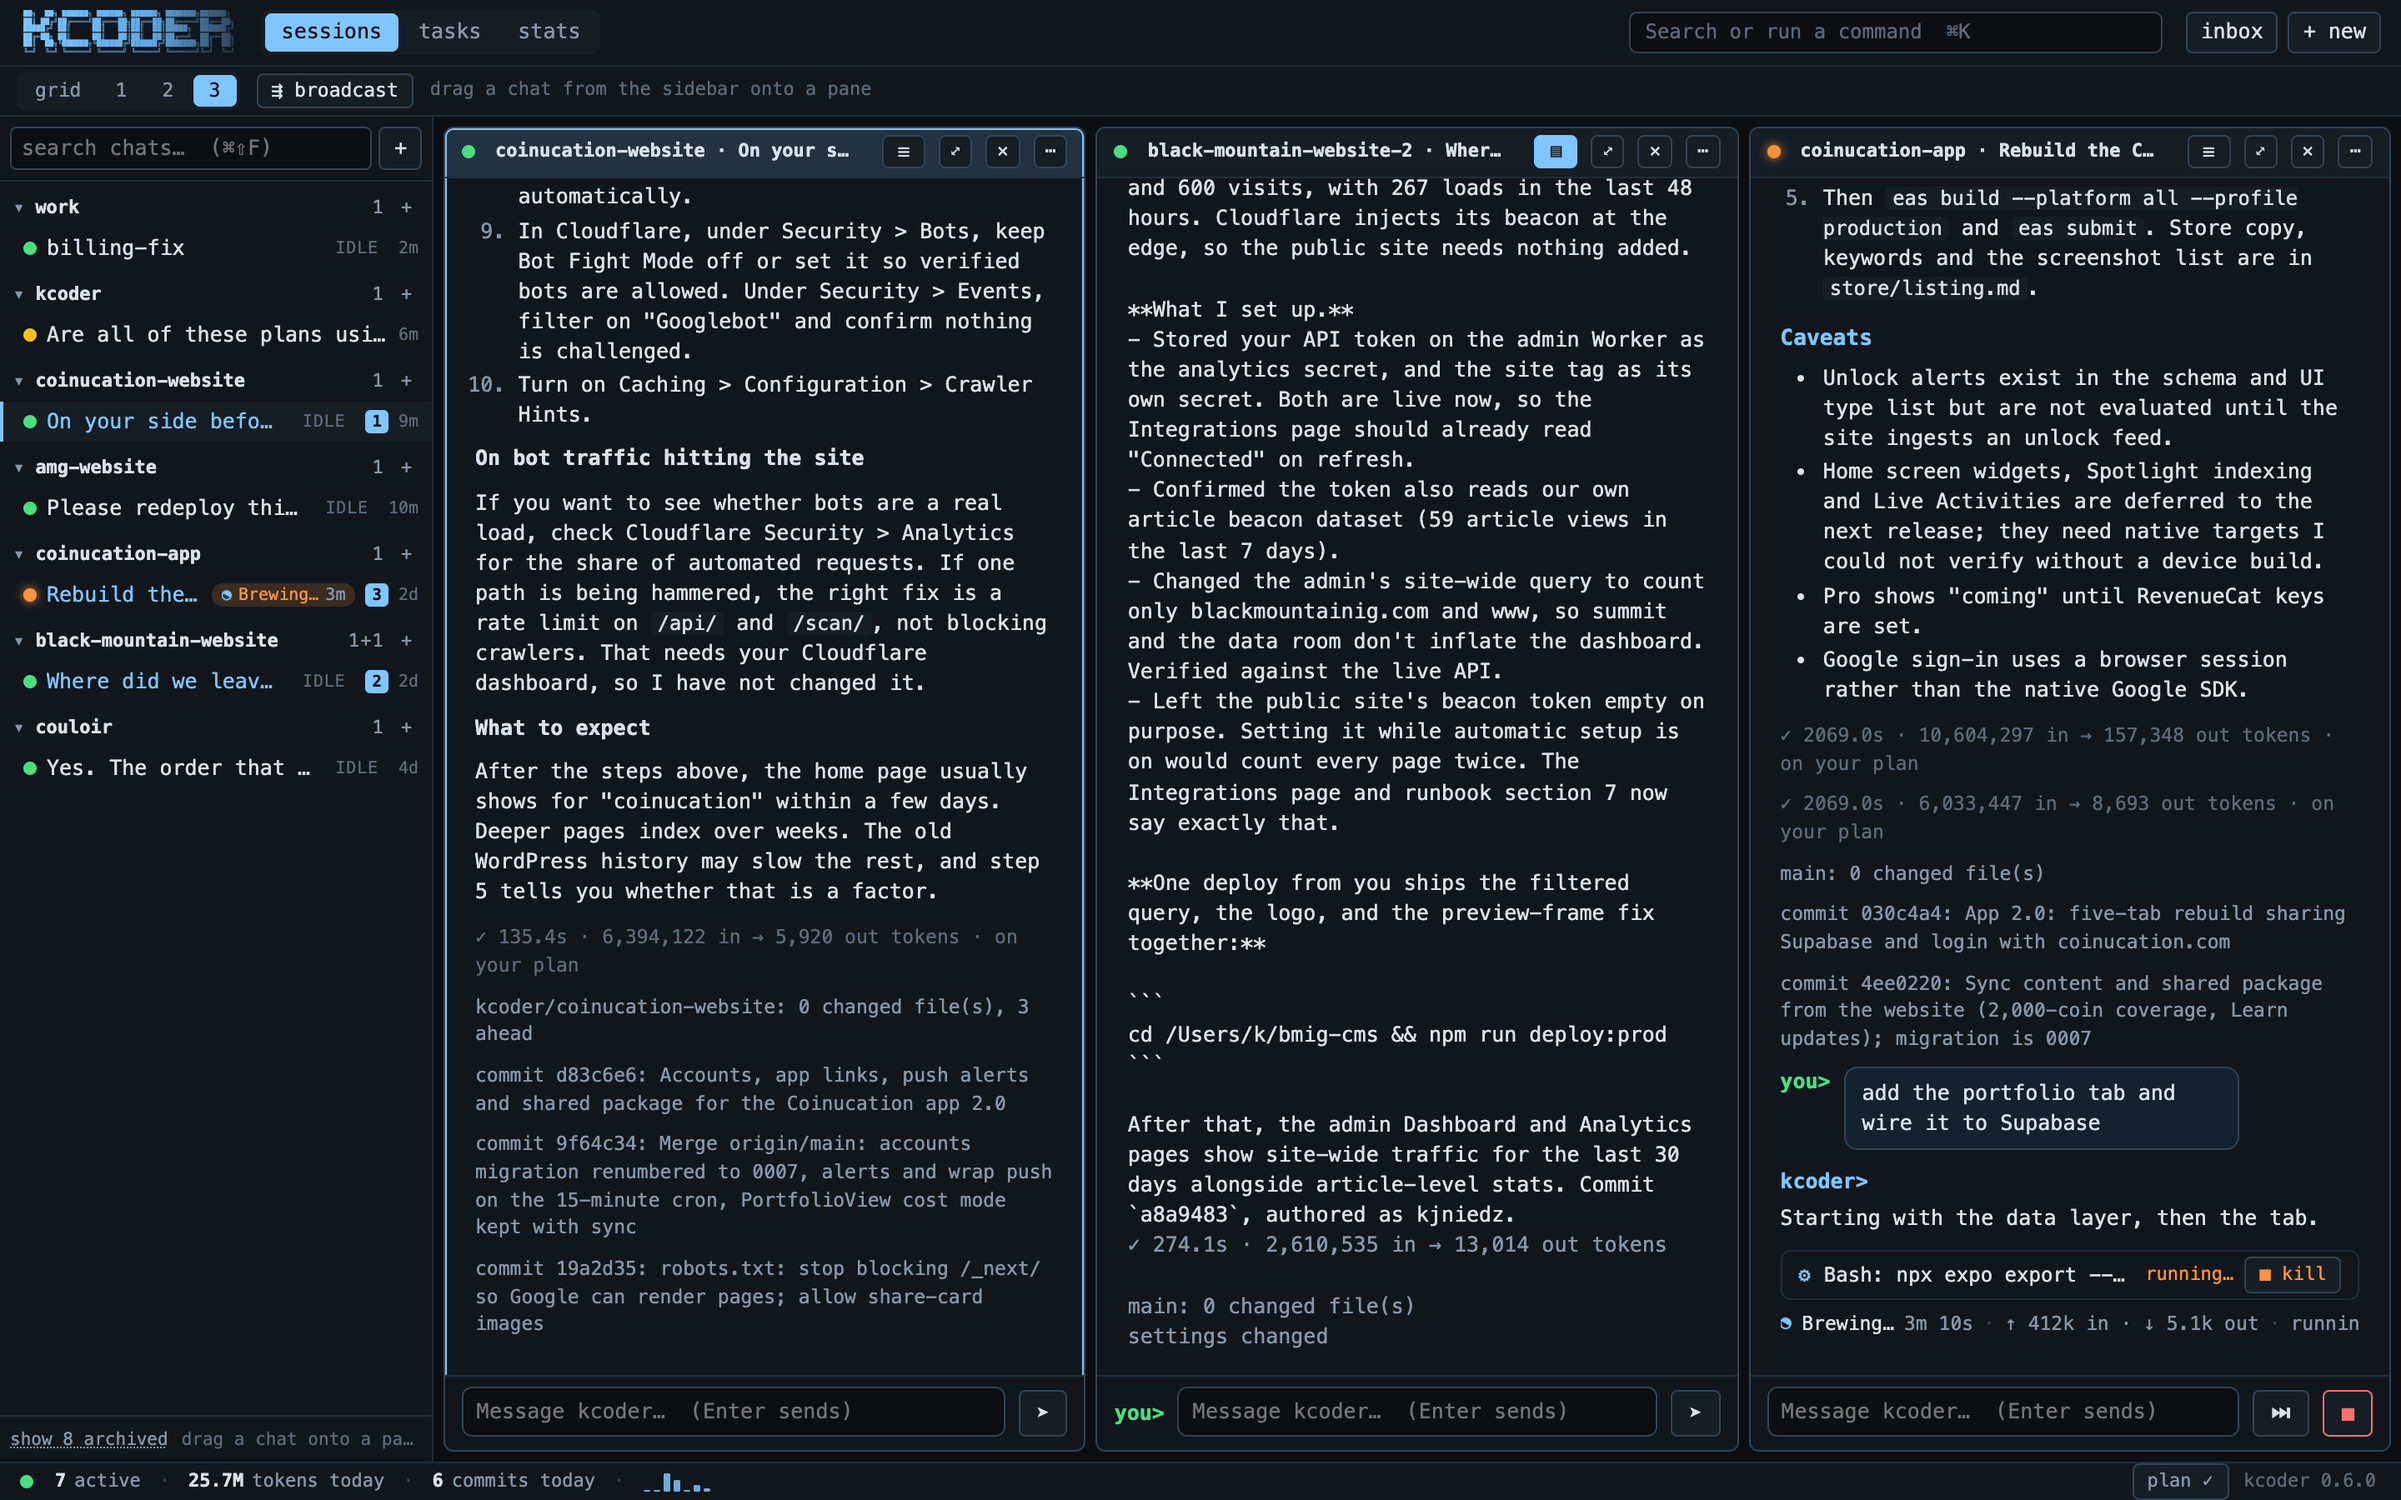
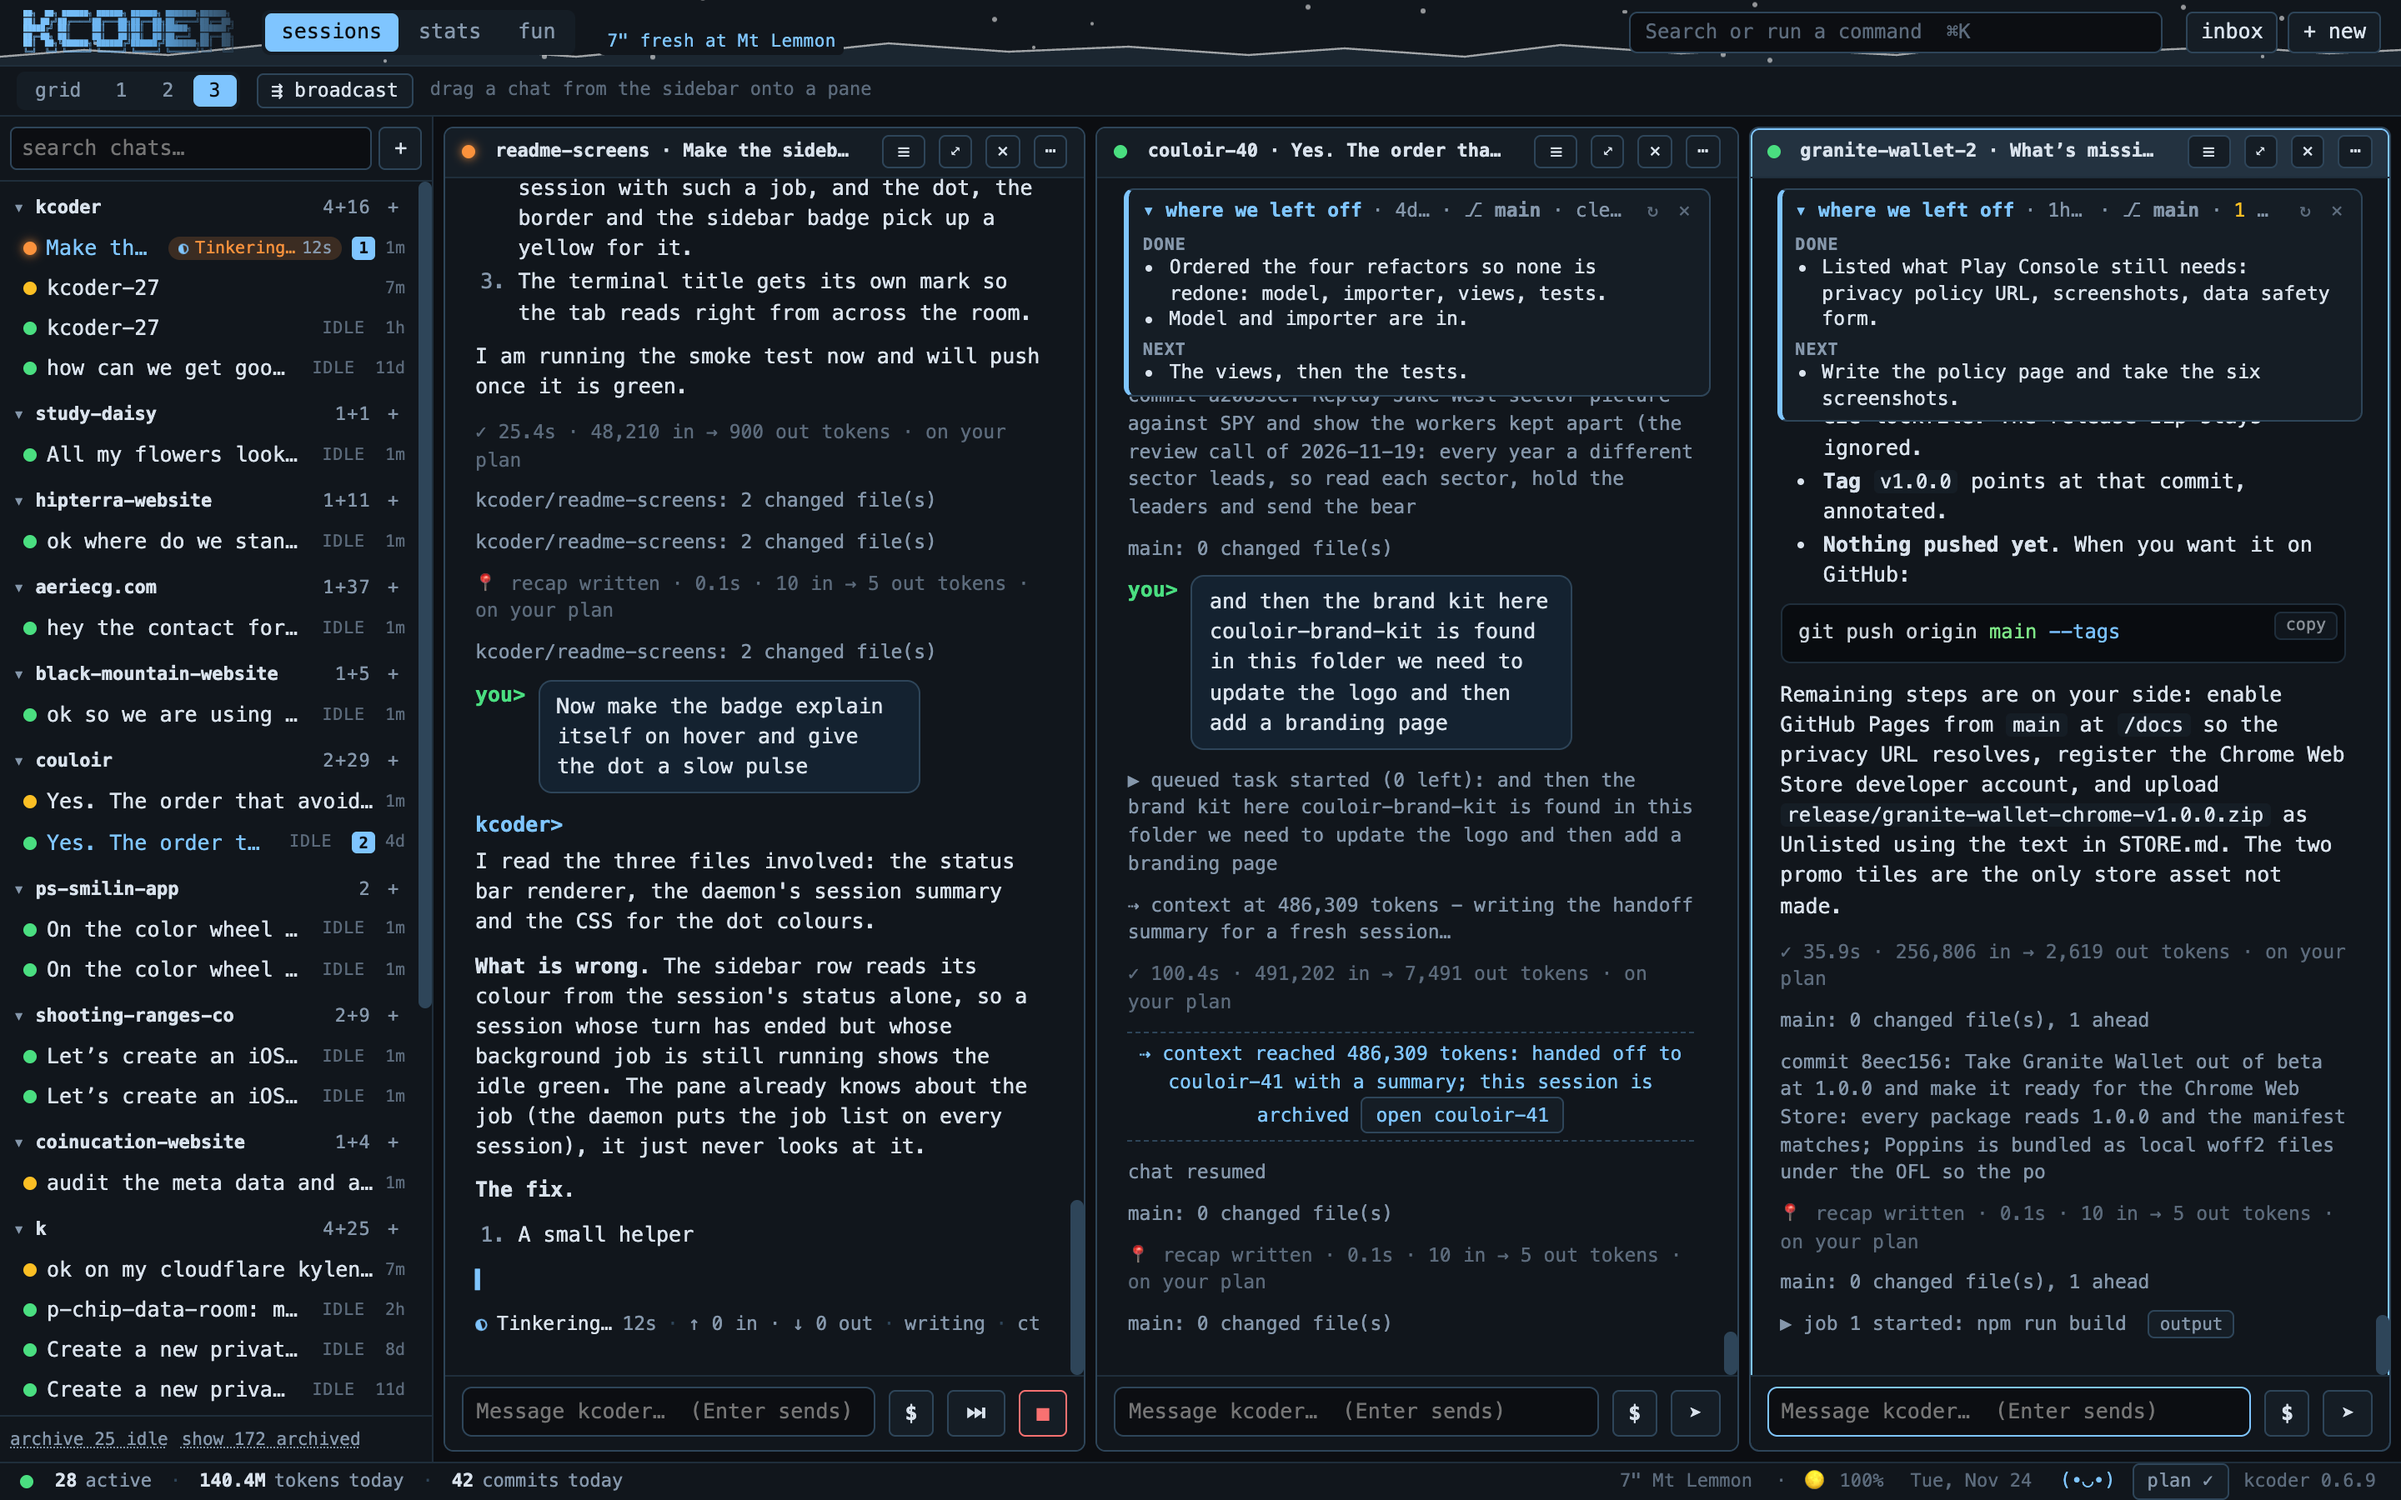
README: the screenshots are from today's app, and the text covers the yellow job status. Kyle asked for the README to be up to date, screenshots and all. The four screenshots were from October 12 and showed the old header (a tasks tab, no fun tab, no conditions), panes without the "where we left off

diff --git a/README.md b/README.md
@@ -24,13 +24,18 @@ them in one window. Developed by Kyle Niedzwiecki.
   review, secret scanning, checkpoints you can undo to, and one-click
   draft PRs, all as your own GitHub account.
 
-![Three sessions side by side: one working with the live status line, one in terminal view](docs/chat-3-panes.png)
+![Three sessions side by side: one working with the live status line, one whose background job is still running, each with its "where we left off" recap](docs/chat-3-panes.png)
 
 <table>
 <tr>
 <td width="33%"><img src="docs/sessions.png" alt="The sessions grid: every live session as a pane"><br><sub><b>Sessions</b>: every live session as a pane, or 1 to 3 side by side</sub></td>
 <td width="33%"><img src="docs/changes.png" alt="Diff review: accept, edit or reject each hunk, then approve, merge or open a draft PR"><br><sub><b>Diff review</b>: accept, edit or reject each hunk, then approve, merge or open a PR</sub></td>
 <td width="33%"><img src="docs/stats.png" alt="Stats: tokens, lines of code, commits, sessions, cache use and more"><br><sub><b>Stats</b>: tokens, lines of code, commits, cache use, activity</sub></td>
+</tr>
+<tr>
+<td width="33%"><img src="docs/phone.png" alt="kcoder on a phone: a session open full screen with the composer above the keyboard"><br><sub><b>Phone</b>: every session on your iPhone through the relay, with push notifications</sub></td>
+<td width="33%"><img src="docs/fun.png" alt="The fun tab: the token mine with its agents, upgrades, sprints and exchange"><br><sub><b>Fun</b>: the token mine, paid by your real turns and commits, plus 2048 and mahjong</sub></td>
+<td width="33%"><img src="docs/conditions.png" alt="The snow view: the last 7 days and the next 7 at the nearest mountain"><br><sub><b>Conditions</b>: fresh snow at the nearest mountain, bitcoin and the moon, from the status bar</sub></td>
 </tr>
 </table>
 
@@ -221,8 +226,9 @@ accent-coloured past 80%. Compacting, retries and approvals use plain wording.
 Runs of three or more tool calls fold into one row ("▸ 15 tool calls (reading
 files)") that expands on click and opens itself while a command is running.
 
-Status is readable from across the room: working, **waiting on you**
-(pulsing border), done, **error**. An error shows a red note with a
+Status is readable from across the room: working (orange), **waiting on you**
+(pulsing border), done (green), **background job** (yellow: the turn is over
+but a job the agent started is still running), **error**. An error shows a red note with a
 **details** button (also on the sidebar badge, the pane status and the inbox)
 that explains what happened, lets you **send the prompt again**, and copies a
 report you can paste into a kcoder session to get it fixed.
@@ -701,7 +707,9 @@ the model asks). For anything longer, the agent runs `kcoder job run --
 <command>`: kcoderd starts it in the session's folder as a background job,
 the pane shows it with live output and a **stop** button, the agent gets the
 output back when it finishes, or, if it has moved on, a message with the
-result and the last lines of output when the job ends. `kcoder job ls / tail
+result and the last lines of output when the job ends. While a job runs
+after the turn, the session's dot, border and sidebar badge are yellow
+("job running") rather than the idle green. `kcoder job ls / tail
 / wait / stop` work from the session's shell. Jobs do not survive a daemon
 restart; the pane marks them lost.
 
